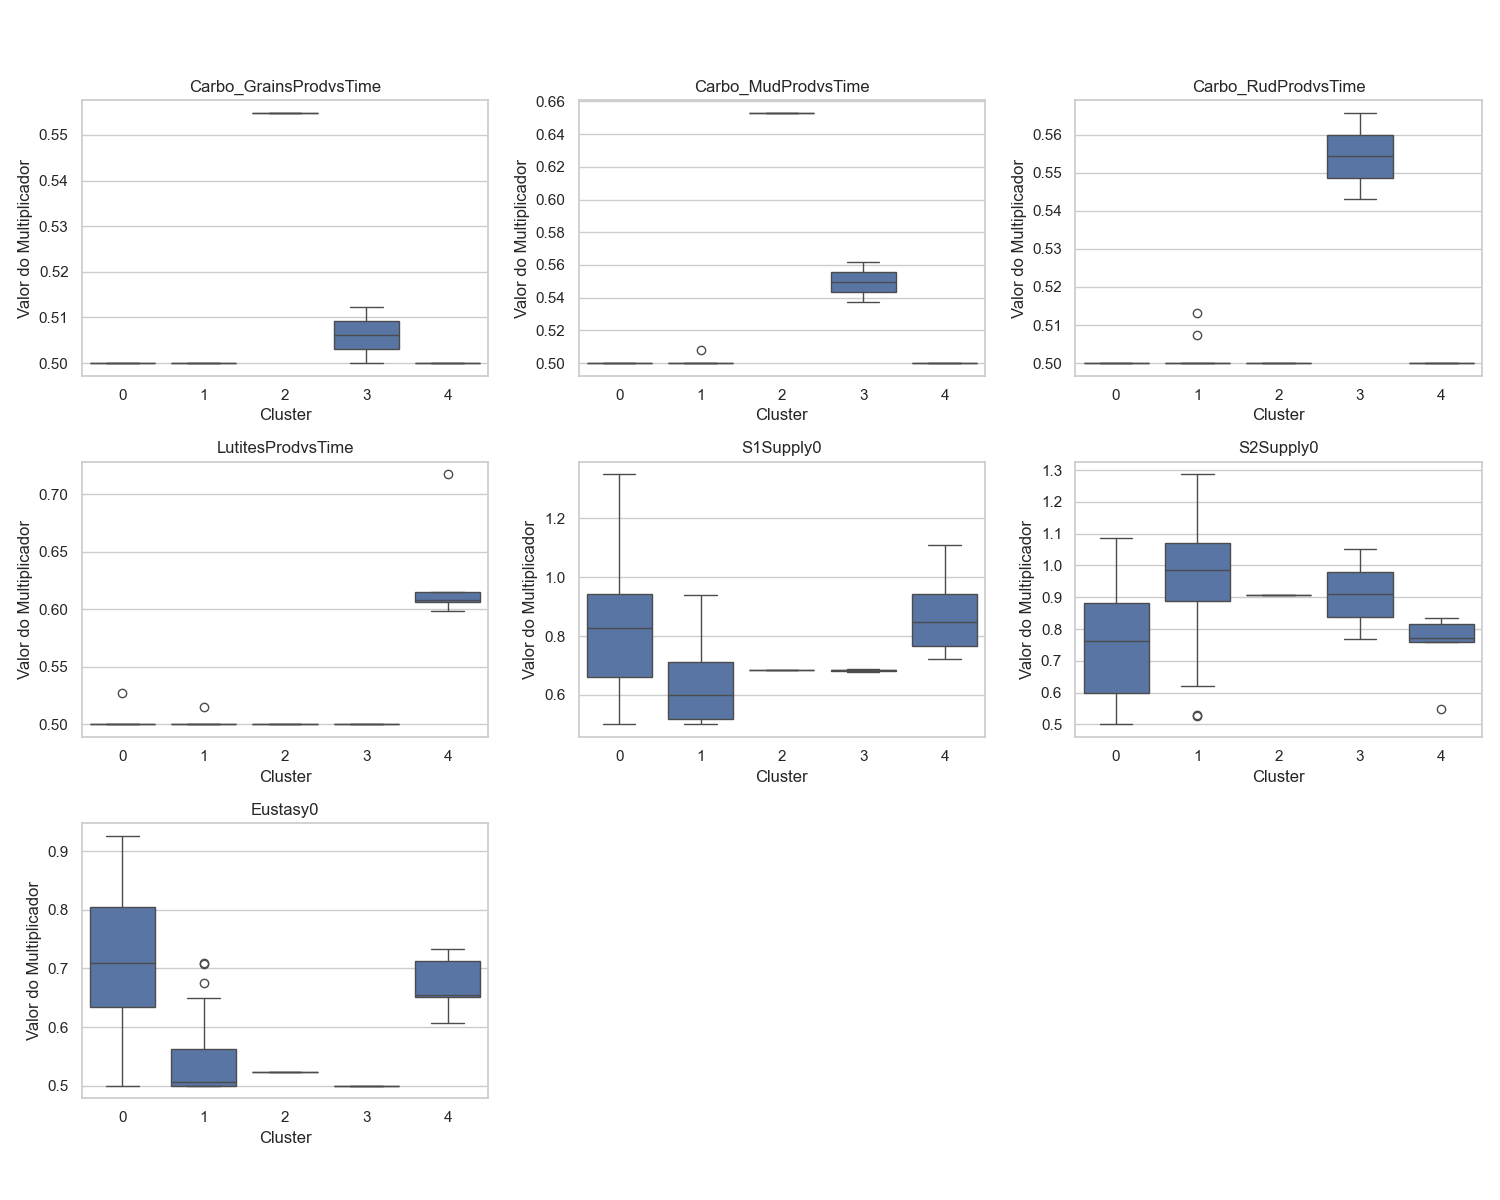
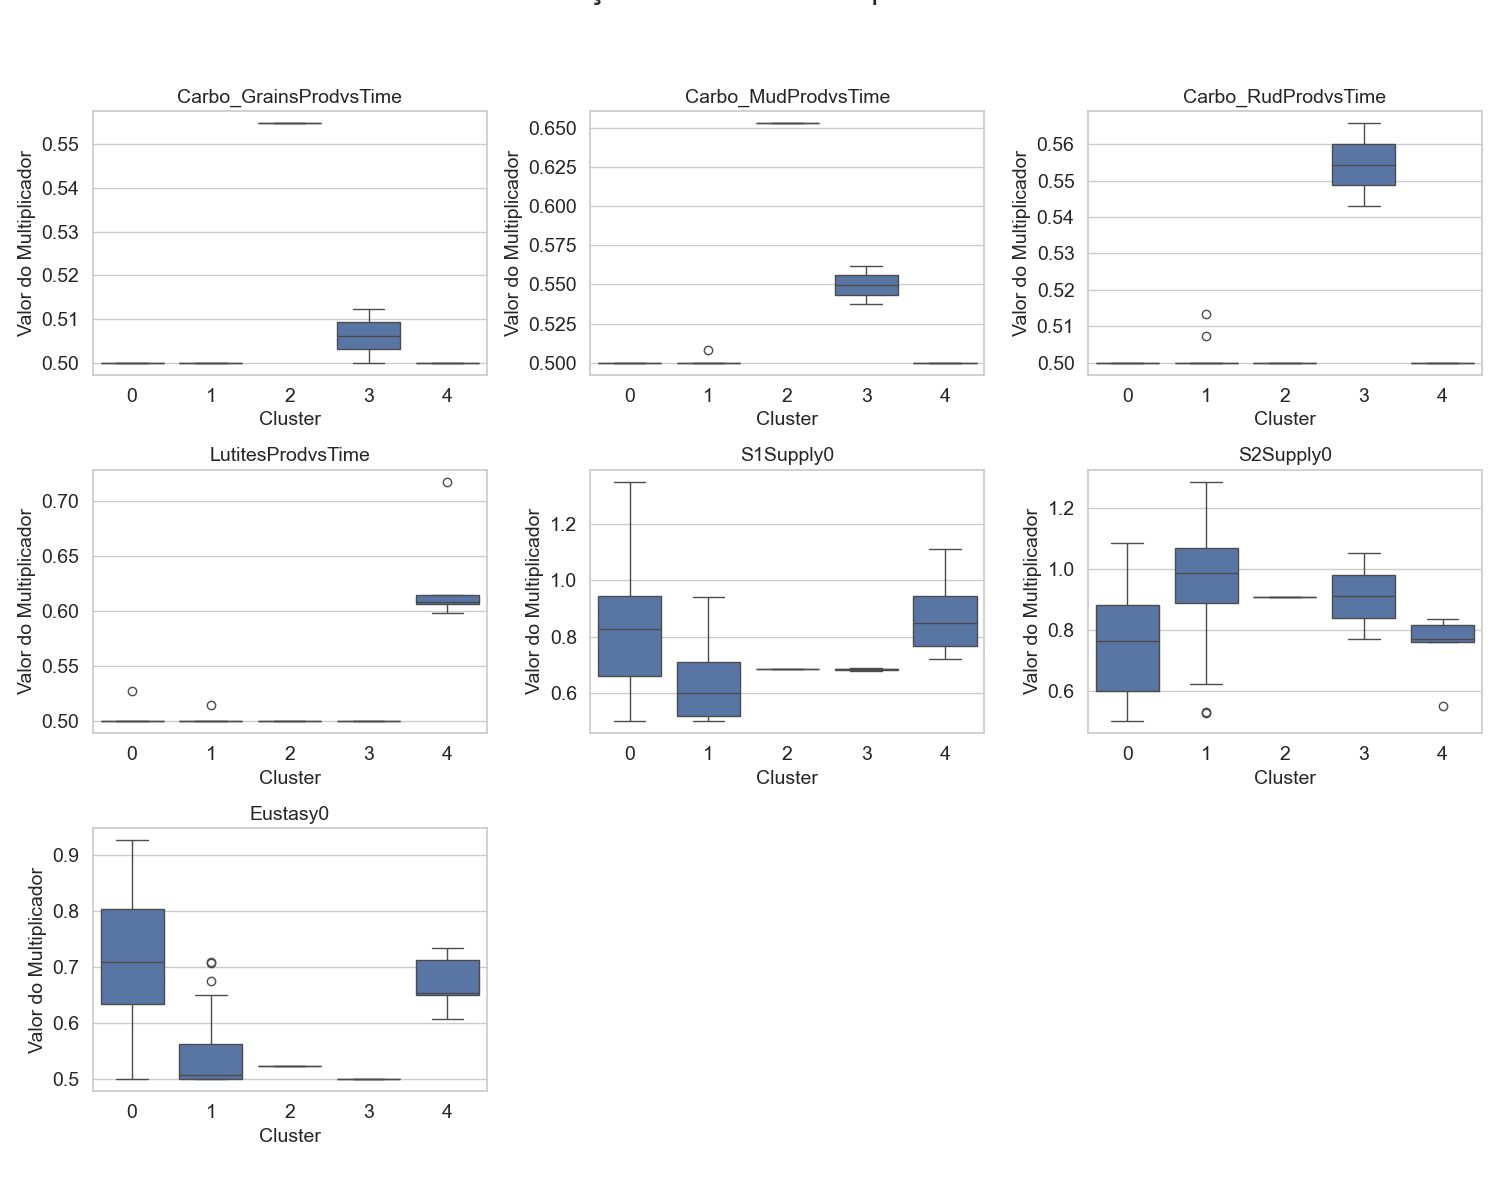
final final

diff --git a/plotting.py b/plotting.py
@@ -13,6 +13,15 @@ import data_loader # Para teste
 import analysis_steps # Para teste
 import clustering # Para teste
 
+plt.rcParams.update({
+    "font.size": 14,
+    "axes.titlesize": 20,
+    "axes.labelsize": 22,
+    "legend.fontsize": 14,
+    "xtick.labelsize": 14,
+    "ytick.labelsize": 14,
+})
+
 # Configurações de estilo para os gráficos (opcional, mas melhora a aparência)
 sns.set_theme(style="whitegrid")
 
@@ -37,9 +46,11 @@ def plot_of_scatter(df_all, df_best, x_col, y_col, filename):
     plt.plot(df_best[x_col], df_best[y_col], marker='o', linestyle='None',
              label=f'Melhores {config.BEST_MODEL_PERCENTILE*100:.0f}%')
 
-    plt.xlabel('Simulação')
-    plt.ylabel('Valor da Função Objetivo (OF)')
-    plt.title('Dispersão dos Valores da Função Objetivo')
+    plt.xlabel('Simulação', fontsize=18)
+    plt.ylabel('Valor da Função Objetivo (OF)', fontsize=18)
+    plt.title('Dispersão dos Valores da Função Objetivo', fontsize=18)
+    plt.xticks(fontsize=14)
+    plt.yticks(fontsize=14)
     plt.legend()
     plt.grid(True)
 
@@ -74,10 +85,12 @@ def plot_pca_clusters(X_pca, cluster_labels, pca_model, filename):
     pc2_var = variance_explained[1] * 100
     total_var = np.sum(variance_explained[:2]) * 100
 
-    plt.title(f'Clusters no Espaço PCA (Total Var. Explicada nos 2 PCs: {total_var:.1f}%)')
-    plt.xlabel(f'Componente Principal 1 ({pc1_var:.1f}%)')
-    plt.ylabel(f'Componente Principal 2 ({pc2_var:.1f}%)')
-    plt.legend(title='Cluster')
+    plt.title(f'Clusters no Espaço PCA (Total Var. Explicada nos 2 PCs: {total_var:.1f}%)', fontsize=18)
+    plt.xlabel(f'Componente Principal 1 ({pc1_var:.1f}%)', fontsize=18)
+    plt.ylabel(f'Componente Principal 2 ({pc2_var:.1f}%)', fontsize=18)
+    plt.legend(title='Cluster', fontsize=14, title_fontsize=16)
+    plt.xticks(fontsize=14)
+    plt.yticks(fontsize=14)
     plt.grid(True, linestyle='--', alpha=0.6)
 
     plt.savefig(filename)
@@ -108,11 +121,13 @@ def plot_parameter_boxplots(X_params_with_clusters, filename):
     for i, column in enumerate(parameter_cols):
         plt.subplot(n_rows, n_cols, i + 1)
         sns.boxplot(x='Cluster', y=column, data=X_params_with_clusters)
-        plt.title(f'{column}')
-        plt.xlabel('Cluster') # Opcional, pode remover se ficar muito cheio
-        plt.ylabel('Valor do Multiplicador') # Opcional
+        plt.title(f'{column}', fontsize=14)
+        plt.xlabel('Cluster', fontsize=14) # Opcional, pode remover se ficar muito cheio
+        plt.ylabel('Valor do Multiplicador', fontsize=14) # Opcional
+        plt.xticks(fontsize=14)
+        plt.yticks(fontsize=14)
 
-    plt.suptitle('Distribuição dos Parâmetros por Cluster', fontsize=16, y=1.02) # Título geral
+    plt.suptitle('Distribuição dos Parâmetros por Cluster', fontsize=22, y=1.02) # Título geral
     plt.tight_layout(rect=[0, 0.03, 1, 0.98]) # Ajusta layout para não sobrepor títulos
   
     plt.savefig(filename)

diff --git a/advanced_analysis.py b/advanced_analysis.py
@@ -34,11 +34,13 @@ def hierarchical_clustering(X_pca, method='ward', max_clusters=10, filename=None
     print("\n--- Hierarchical Clustering ---")
     linkage_matrix = linkage(X_pca, method=method)
     
-    plt.figure(figsize=(12, 6))
+    plt.figure(figsize=(12, 8))
     dendrogram(linkage_matrix, truncate_mode='level', p=5)
-    plt.title(f"Dendrograma - Método {method.capitalize()}")
-    plt.xlabel("Amostras")
-    plt.ylabel("Distância Euclidiana")
+    plt.title(f"Dendrograma - Método {method.capitalize()}", fontsize=18)
+    plt.xlabel("Amostras", fontsize=18)
+    plt.ylabel("Distância Euclidiana", fontsize=18)
+    plt.xticks(fontsize=12)
+    plt.yticks(fontsize=12)
     
     if filename:
         plt.savefig(filename)
@@ -112,8 +114,10 @@ def lda_analysis(X_scaled, cluster_labels, feature_names=None, filename=None):
     if filename:
         plt.figure(figsize=(10, 5))
         coef_series.plot(kind='bar')
-        plt.title("Coeficientes Discriminantes (LDA)")
-        plt.ylabel("Importância Relativa")
+        plt.title("Coeficientes Discriminantes (LDA)", fontsize=18)
+        plt.ylabel("Importância Relativa", fontsize=18)
+        plt.xticks(fontsize=14)
+        plt.yticks(fontsize=14)
         plt.tight_layout()
         plt.savefig(filename)
         plt.close()

diff --git a/clustering.py b/clustering.py
@@ -33,9 +33,11 @@ def plot_elbow_method(X_pca, k_range, filename):
 
     plt.figure(figsize=(10, 6))
     plt.plot(k_range, inertia, marker='o', linestyle='--')
-    plt.xlabel('Número de Clusters (k)')
-    plt.ylabel('Inércia (WSS)')
-    plt.title('Método do Cotovelo para Determinar k Ótimo')
+    plt.xlabel('Número de Clusters (k)', fontsize=18)
+    plt.ylabel('Inércia (WSS)', fontsize=18)
+    plt.title('Método do Cotovelo para Determinar k Ótimo', fontsize=18)
+    plt.xticks(fontsize=14)
+    plt.yticks(fontsize=14)
     plt.xticks(list(k_range))
     plt.grid(True)
  
@@ -75,9 +77,11 @@ def plot_silhouette_scores(X_pca, k_range, filename):
 
     plt.figure(figsize=(10, 6))
     plt.plot(k_range, silhouette_scores, marker='o', linestyle='--')
-    plt.xlabel('Número de Clusters (k)')
-    plt.ylabel('Pontuação Média de Silhueta')
-    plt.title('Análise da Pontuação de Silhueta para Determinar k Ótimo')
+    plt.xlabel('Número de Clusters (k)', fontsize=18)
+    plt.ylabel('Pontuação Média de Silhueta', fontsize=18)
+    plt.title('Análise da Pontuação de Silhueta para Determinar k Ótimo', fontsize=18)
+    plt.xticks(fontsize=14)
+    plt.yticks(fontsize=14)
     plt.xticks(list(k_range))
     plt.grid(True)
     try:

diff --git a/results_Uncertain_parameters_and_OF_values/relatorio_analise_calibracao.md b/results_Uncertain_parameters_and_OF_values/relatorio_analise_calibracao.md
@@ -1,6 +1,6 @@
 # Relatório de Análise de Calibração
 
-Relatório gerado em: 2025-11-24 16:21:16
+Relatório gerado em: 2025-11-24 17:51:24
 
 Arquivo de entrada: `Uncertain_parameters_and_OF_values.xlsx`
 
